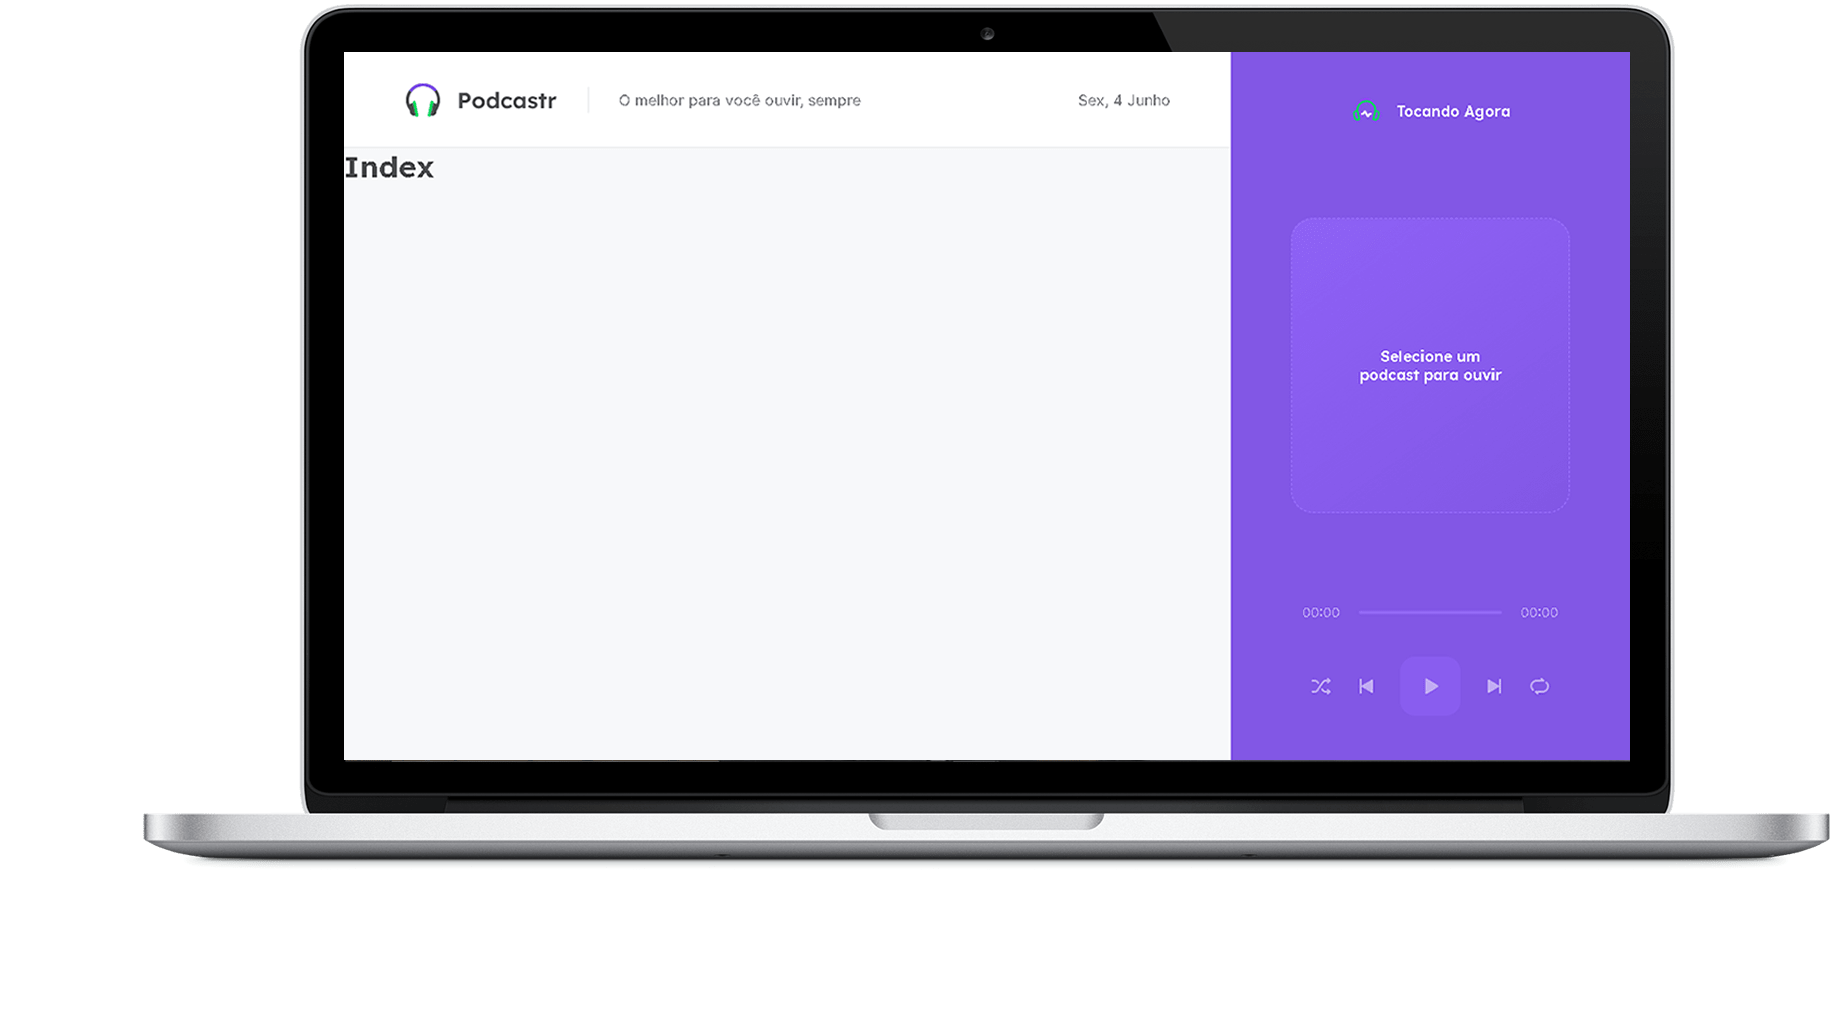
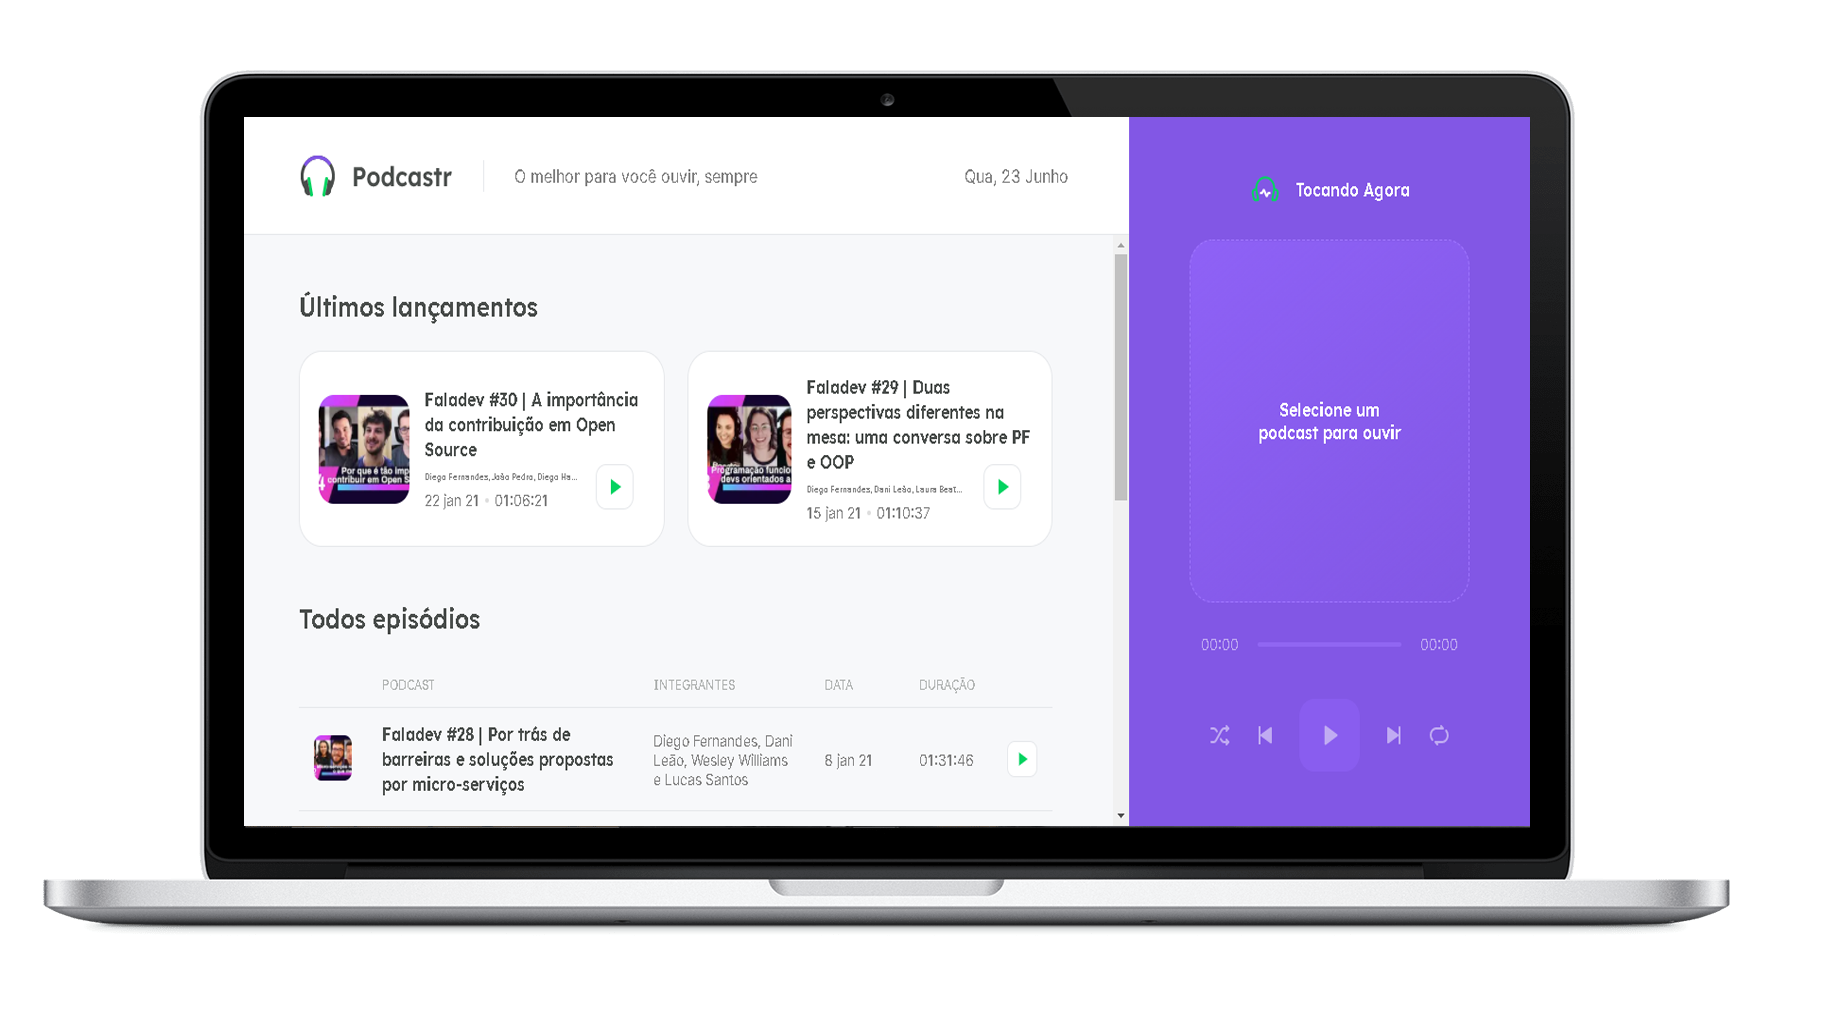
alterando imagem do README e alguns arquivos no diretorio pages nos arquivos home.module.scss e index.tsx

diff --git a/src/pages/home.module.scss b/src/pages/home.module.scss
@@ -17,13 +17,13 @@
         gap: 1.5rem;
 
         li{
+            display: flex;
             background: var(--white);
             border: 1px solid var(--gray-100);
             padding: 1.25rem;
             border-radius: 1.5rem;
             position: relative;
 
-            display: flex;
             align-items: center;
 
             img{
@@ -50,7 +50,7 @@
                 }
 
                 p{
-                    font-size: 0.875rem;
+                    font-size: 0.5rem;
                     margin-top: 0.5rem;
                     max-width: 70%;
                     white-space: nowrap;
@@ -61,7 +61,7 @@
                 span{
                     display: inline-block;
                     margin-top: 0.5rem;
-                    font-size: 0.875rem;
+                    font-size: 0.85rem;
 
                     &:last-child{
                         margin-left: 0.5rem;
@@ -163,6 +163,7 @@
                 img{
                     width: 1.25rem;
                     height: 1.25rem;
+                    
                 }
 
                 &:hover{

diff --git a/src/pages/index.tsx b/src/pages/index.tsx
@@ -42,12 +42,14 @@ export default function Home({latestEpisodes, allEpisodes}: HomeProps) {
                   alt={episode.title} 
                   objectFit="cover"
                 />
+
                 <div className={styles.episodeDetails}>
                   <a href="">{episode.title}</a>
                   <p>{episode.members}</p>
                   <span>{episode.publishedAt}</span>
                   <span>{episode.durationAsString}</span>
                 </div>
+                
                 <button type="button">
                   <img src="/play-green.svg" alt="tocar episódio" />
                 </button>
@@ -56,6 +58,7 @@ export default function Home({latestEpisodes, allEpisodes}: HomeProps) {
           })}
         </ul>
       </section>
+      
       <section className={styles.allEpisodes}>
         <h2>Todos episódios</h2>
         <table cellSpacing={0}>

diff --git a/src/pages/episode.tsx b/src/pages/episode.tsx
@@ -1,0 +1,7 @@
+//file sistem root
+export default function Episode(){
+    return(
+        <h1>Hello World !! Episodes</h1>
+        
+    )
+}

diff --git a/README.md b/README.md
@@ -17,7 +17,6 @@
 - [json-server](https://github.com/typicode/json-server) 
 - [Axios](https://github.com/axios/axios) 
 
-https://axios-http.com/
 
 ## Projeto :computer:
 
